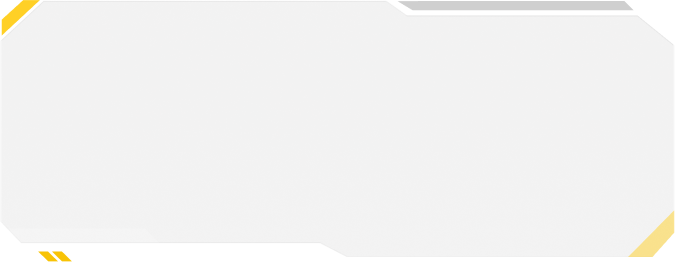
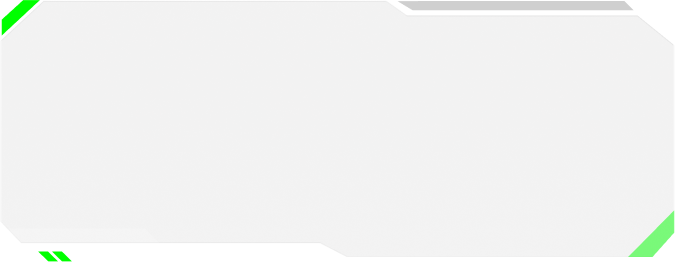
[Add] lootbox details page added

Changed region(s): [[0.9333, 0.7939, 1.0, 1.0], [0.0, 0.0, 0.0622, 0.1221], [0.0622, 0.9466, 0.1244, 1.0]]

diff --git a/components/home/LootBoxDetails.jsx b/components/home/LootBoxDetails.jsx
@@ -58,7 +58,7 @@ export default function LootBoxDetails() {
                   height={46}
                   className="w-7 sm:w-11"
                 />
-                <span className="text-yellow2">BabyDoge</span> Loot Box
+                <span className="text-green">OKX Chain</span> Loot Box
               </h2>
               {/*  */}
               <div className="mt-5 md:mt-4 2xl:mt-9 w-full">
@@ -70,7 +70,7 @@ export default function LootBoxDetails() {
                     </p>
                     <div className="border border-white bg-[#434343]/40 w-full">
                       <p className="py-4 px-8 lg:px-4 xl:px-8 text-sm sm:text-base md:text-lg lg:text-xl xl:text-2xl ">
-                        <span className="text-yellow2 font-bold">Supply:</span>{" "}
+                        <span className="text-green font-bold">Supply:</span>{" "}
                         10,000 Loot Boxes
                       </p>
                     </div>
@@ -83,8 +83,8 @@ export default function LootBoxDetails() {
                     </p>
                     <div className="border border-white bg-[#434343]/40">
                       <p className="py-4 px-8 lg:px-4 xl:px-8 text-sm sm:text-base md:text-lg lg:text-xl xl:text-2xl">
-                        <span className="text-yellow2 font-bold">Price:</span>{" "}
-                        $15 for whitelisted Wallets
+                        <span className="text-green font-bold">Price:</span> $15
+                        for whitelisted Wallets
                       </p>
                     </div>
                   </div>
@@ -96,14 +96,14 @@ export default function LootBoxDetails() {
                     <div className="flex items-center gap-4 xl:gap-8 2xl:gap-20 w-full">
                       <div className="border border-white bg-[#434343]/40 flex-1">
                         <p className="py-4 px-8 lg:px-4 xl:px-8 text-sm sm:text-base md:text-lg lg:text-xl xl:text-2xl">
-                          <span className="text-yellow2 font-bold">CHAIN:</span>{" "}
+                          <span className="text-green font-bold">CHAIN:</span>{" "}
                           BNB
                         </p>
                       </div>
                       {/*  */}
                       <div className="border border-white bg-[#434343]/40 flex-1">
                         <p className="py-4 px-8 lg:px-4 xl:px-8 text-sm sm:text-base md:text-lg lg:text-xl xl:text-2xl">
-                          <span className="text-yellow2 font-bold">
+                          <span className="text-green font-bold">
                             Mint Date:
                           </span>{" "}
                           TBA
@@ -118,7 +118,7 @@ export default function LootBoxDetails() {
                 {/*  */}
                 <div className="flex flex-col items-center">
                   <p className="text-sm sm:text-base md:text-lg lg:text-xl xl:text-2xl font-extrabold">
-                    <span className="text-yellow2">1 Mint =</span> 1 Character 1
+                    <span className="text-green">1 Mint =</span> 1 Character 1
                     Sword
                   </p>
                   <p className="text-sm sm:text-base md:text-lg lg:text-xl xl:text-2xl text-center">
@@ -127,7 +127,7 @@ export default function LootBoxDetails() {
                 </div>
                 {/*  */}
                 <div className="flex flex-col items-center">
-                  <p className="text-sm sm:text-base md:text-lg lg:text-xl xl:text-2xl font-extrabold text-yellow2">
+                  <p className="text-sm sm:text-base md:text-lg lg:text-xl xl:text-2xl font-extrabold text-green">
                     Mint NFT
                   </p>
                   <p className="text-sm sm:text-base md:text-lg lg:text-xl xl:text-2xl text-center">
@@ -163,7 +163,7 @@ export default function LootBoxDetails() {
           <div className="w-full lg:w-[50%] xl:w-[45%] px-6 sm:px-10 md:px-12 lg:pr-16 flex flex-col items-center gap-8 sm:gap-20 md:gap-32 pt-20 lg:pt-0 md:mt-16 justify-evenly">
             {/* 1st card */}
             <div className="bg-[url('/assets/images/loot-box-detail-card-frame.png')]  bg-contain sm:bg-contain bg-no-repeat min-w-[340px] sm:min-w-[550px] md:min-w-[673px] lg:min-w-[460px] xl:min-w-[580px] xl:min-h-[300px] 2xl:min-w-[673px] 2xl:h-[261px] relative">
-              <p className="text-white/70 text-xs sm:text-base md:text-xl lg:text-base py-8 px-5 sm:py-12 sm:px-10 md:py-12 md:px-10 lg:py-7 lg:px-6 xl:py-12 xl:px-10 2xl:py-16 2xl:px-14 max-w-[250px] sm:max-w-[390px] md:max-w-[398px] lg:max-w-[350px] xl:max-w-[398px] relative z-10 bottom-2 sm:bottom-3">
+              <p className="text-white/70 text-xs sm:text-base md:text-xl lg:text-base py-8 px-5 sm:py-12 sm:px-10 md:py-12 md:px-10 lg:py-7 lg:px-6 xl:py-12 xl:px-10 2xl:py-16 2xl:px-14 max-w-[250px] sm:max-w-[390px] md:max-w-[498px] lg:max-w-[350px] xl:max-w-[398px] relative z-10 bottom-2 sm:bottom-3">
                 We have designed the special In-game character to show our
                 tribute to the great Baby Doge community and now the community
                 members can also claim one of their own through our NFT
@@ -174,16 +174,16 @@ export default function LootBoxDetails() {
                 alt=""
                 width={600}
                 height={487}
-                className="absolute z-[2] w-[500px] -bottom-10 -right-16 sm:w-[600px] sm:-bottom-20 sm:-right-28 md:-bottom-28 md:-right-28 md:w-[700px] lg:w-[400px] lg:-bottom-10 lg:-right-20 xl:w-[500px] xl:bottom-0 xl:-right-16 2xl:-bottom-28 2xl:-right-28 2xl:w-[700px]"
+                className="absolute z-[2] w-[220px] -bottom-10 -right-16 sm:w-[350px] sm:-bottom-20 sm:-right-20 md:-bottom-28 md:-right-20 md:w-[450px] lg:w-[270px] lg:-bottom-10 lg:-right-20 xl:w-[350px] xl:bottom-0 xl:-right-20 2xl:-bottom-28 2xl:-right-20 2xl:w-[480px]"
               />
             </div>
             {/* 2nd card */}
             <div className="bg-[url('/assets/images/loot-box-detail-card-frame.png')]  bg-contain sm:bg-contain bg-no-repeat min-w-[340px] sm:min-w-[550px] md:min-w-[673px] lg:min-w-[460px] xl:min-w-[580px] xl:min-h-[300px] 2xl:min-w-[673px] 2xl:h-[261px] relative">
-              <p className="text-white/70 text-xs sm:text-base md:text-xl lg:text-base py-8 px-5 sm:py-12 sm:px-10 md:py-12 md:px-10 lg:py-7 lg:px-6 xl:py-12 xl:px-10 2xl:py-16 2xl:px-14 max-w-[250px] sm:max-w-[390px] md:max-w-[398px] lg:max-w-[350px] xl:max-w-[398px] relative z-10 bottom-2 sm:bottom-3">
+              <p className="text-white/70 text-xs sm:text-base md:text-xl lg:text-base py-8 px-5 sm:py-12 sm:px-10 md:py-12 md:px-10 lg:py-7 lg:px-6 xl:py-12 xl:px-10 2xl:py-16 2xl:px-14 max-w-[250px] sm:max-w-[390px] md:max-w-[498px] lg:max-w-[350px] xl:max-w-[398px] relative z-10 bottom-2 sm:bottom-3">
                 Once you mint a Loot Box, you will get a Character and you will
                 get an additional free Weapon NFT.
                 <br />
-                <span className="text-yellow2">
+                <span className="text-green">
                   For the price of one Loot Box, you will get 2 NFTs!
                 </span>
               </p>
@@ -192,7 +192,7 @@ export default function LootBoxDetails() {
                 alt=""
                 width={600}
                 height={487}
-                className="absolute z-[2] w-[200px] -bottom-10 -right-14 sm:w-[350px] sm:-bottom-20 sm:-right-28 -md:-bottom-16 md:-right-28 md:w-[400px] lg:w-[260px] lg:-bottom-16 lg:-right-20 xl:w-[370px] xl:-bottom-5 xl:-right-20 2xl:-bottom-16 2xl:-right-28 2xl:w-[460px]"
+                className="absolute z-[2] w-[200px] -bottom-10 -right-14 sm:w-[350px] sm:-bottom-20 sm:-right-20 -md:-bottom-16 md:-right-20 md:w-[400px] lg:w-[260px] lg:-bottom-16 lg:-right-20 xl:w-[370px] xl:-bottom-5 xl:-right-20 2xl:-bottom-16 2xl:-right-20 2xl:w-[460px]"
               />
             </div>
           </div>
@@ -208,7 +208,7 @@ export default function LootBoxDetails() {
 const whiteListBtn = [
   {
     textLabel: "whitelist now",
-    bgColor: "#FFD026",
+    bgColor: "#00FF00",
     textSize: "text-sm lg:text-base 2xl:text-xl ",
     innerBtnPadding: "px-10 h-8",
     bgVariantType: "#232323",

diff --git a/components/home/Lootbox.jsx b/components/home/Lootbox.jsx
@@ -155,7 +155,7 @@ export default function Lootbox() {
                   height={46}
                   className="w-7 sm:w-11"
                 />
-                <span className="text-green">BabyDoge</span> Loot Box
+                <span className="text-green">OKX Chain</span> Loot Box
               </h2>
             </motion.div>
             {/* left card */}
@@ -175,7 +175,7 @@ export default function Lootbox() {
                 autoPlay
                 muted
                 loop
-                poster="/assets/images/thumbnail2.png"
+                poster="/assets/images/video-poster.webp"
                 width={"100%"}
                 height={"100%"}
                 className="object-cover aspect-video max-h-[350px]"

diff --git a/components/home/BannerButton.jsx b/components/home/BannerButton.jsx
@@ -151,7 +151,7 @@ const logoData = [
   },
   {
     icon: "/assets/icons/okx-logo.svg",
-    textLabel: "babydoge",
+    textLabel: "okx chain",
   },
 ];
 
